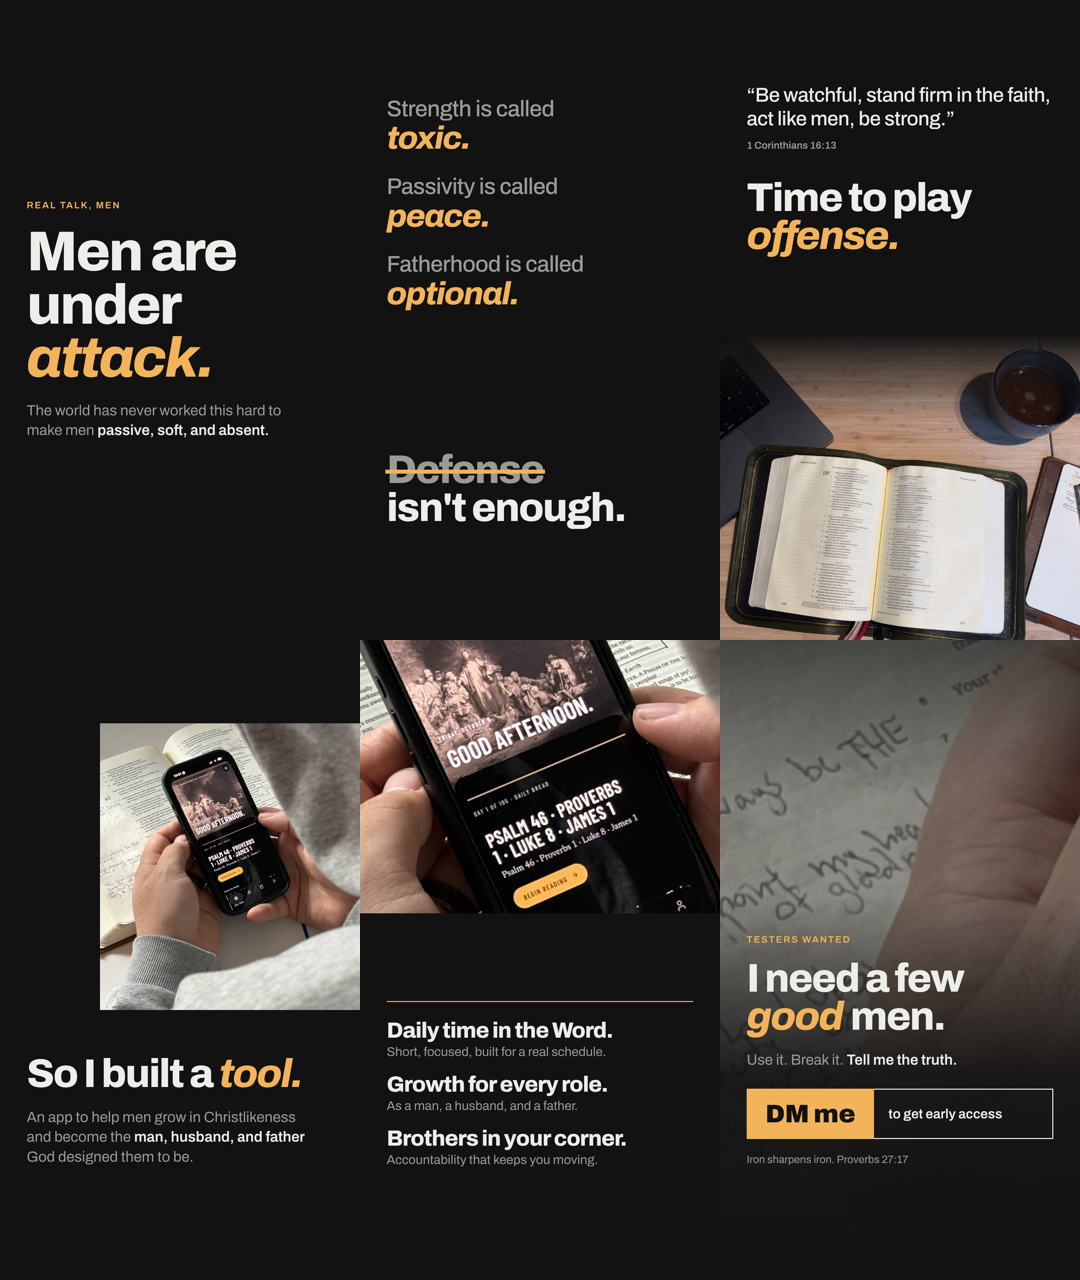
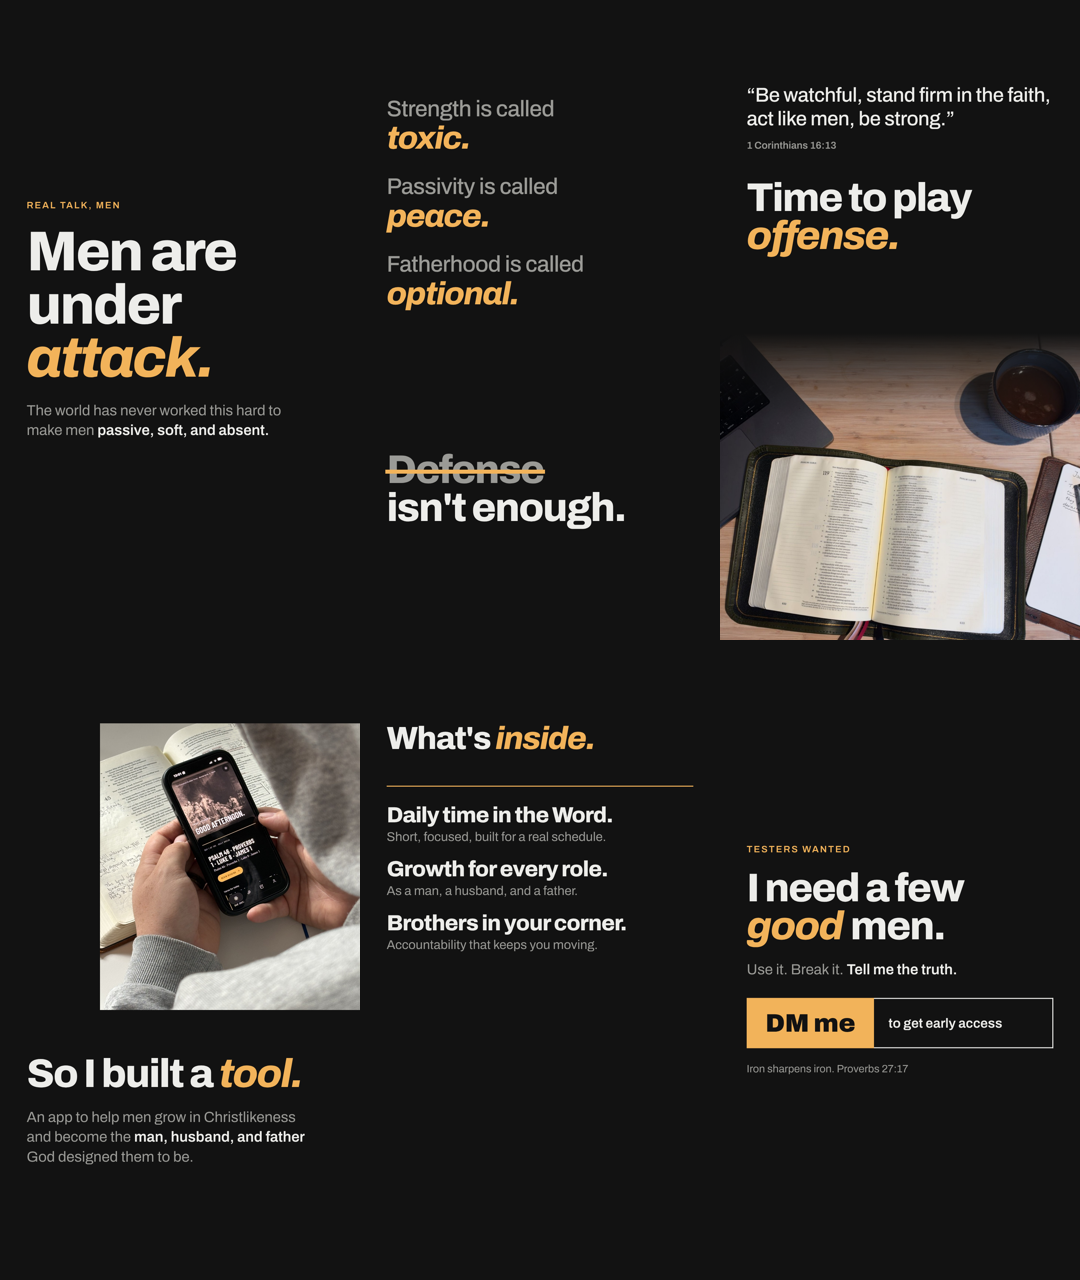
Use the user's photos only on slides 3 and 4
Remove the app-photo crops from slides 5 and 6; those slides await
web photos once image hosts are allowed.

Claude-Session: https://claude.ai/code/session_0116Hg7omUieHTTxqUcCEPH1

Changed region(s): [[0.3361, 0.5, 1.0, 0.9062], [0.3361, 0.7812, 0.5806, 0.9062]]

diff --git a/instagram-story/story.html b/instagram-story/story.html
@@ -103,8 +103,8 @@
 
 <!-- 5. Full-width photo top, feature stack below -->
 <section class="slide" id="s5">
-  <div class="photo" style="left:0; right:0; top:0; height:820px" data-n="5" data-label=""></div>
-  <div class="abs" style="bottom:var(--bottom)">
+  <div class="abs" style="top:var(--top)">
+    <h2 class="d m" style="margin-bottom:96px">What's <em>inside.</em></h2>
     <div class="feats">
       <p class="feat">Daily time in the Word.<span>Short, focused, built for a real schedule.</span></p>
       <p class="feat">Growth for every role.<span>As a man, a husband, and a father.</span></p>
@@ -115,9 +115,7 @@
 
 <!-- 6. Full-bleed photo, single CTA -->
 <section class="slide" id="s6">
-  <div class="photo" style="inset:0; filter:brightness(.55) saturate(.7)" data-n="6" data-label=""></div>
-  <div class="scrim"></div>
-  <div class="abs" style="bottom:var(--bottom)">
+  <div class="abs" style="top:50%; transform:translateY(-50%)">
     <div class="label" style="margin-bottom:44px">Testers wanted</div>
     <h2 class="d l">I need a few <em>good</em> men.</h2>
     <p class="body" style="margin-top:44px">Use it. Break it. <b>Tell me the truth.</b></p>
@@ -130,8 +128,6 @@
   const labels = {
     3: 'Photo 3: hands on an open Bible, early-morning window light',
     4: 'Photo 4: screenshot of the app, or a man reading on his phone at dawn',
-    5: 'Photo 5: dad walking with his kid outdoors, golden hour, from behind',
-    6: 'Photo 6: a few men around a fire pit, candid, not posed',
   };
   document.querySelectorAll('.photo[data-n]').forEach(el => {
     const n = el.dataset.n, src = `photos/${n}.jpg`, img = new Image();
